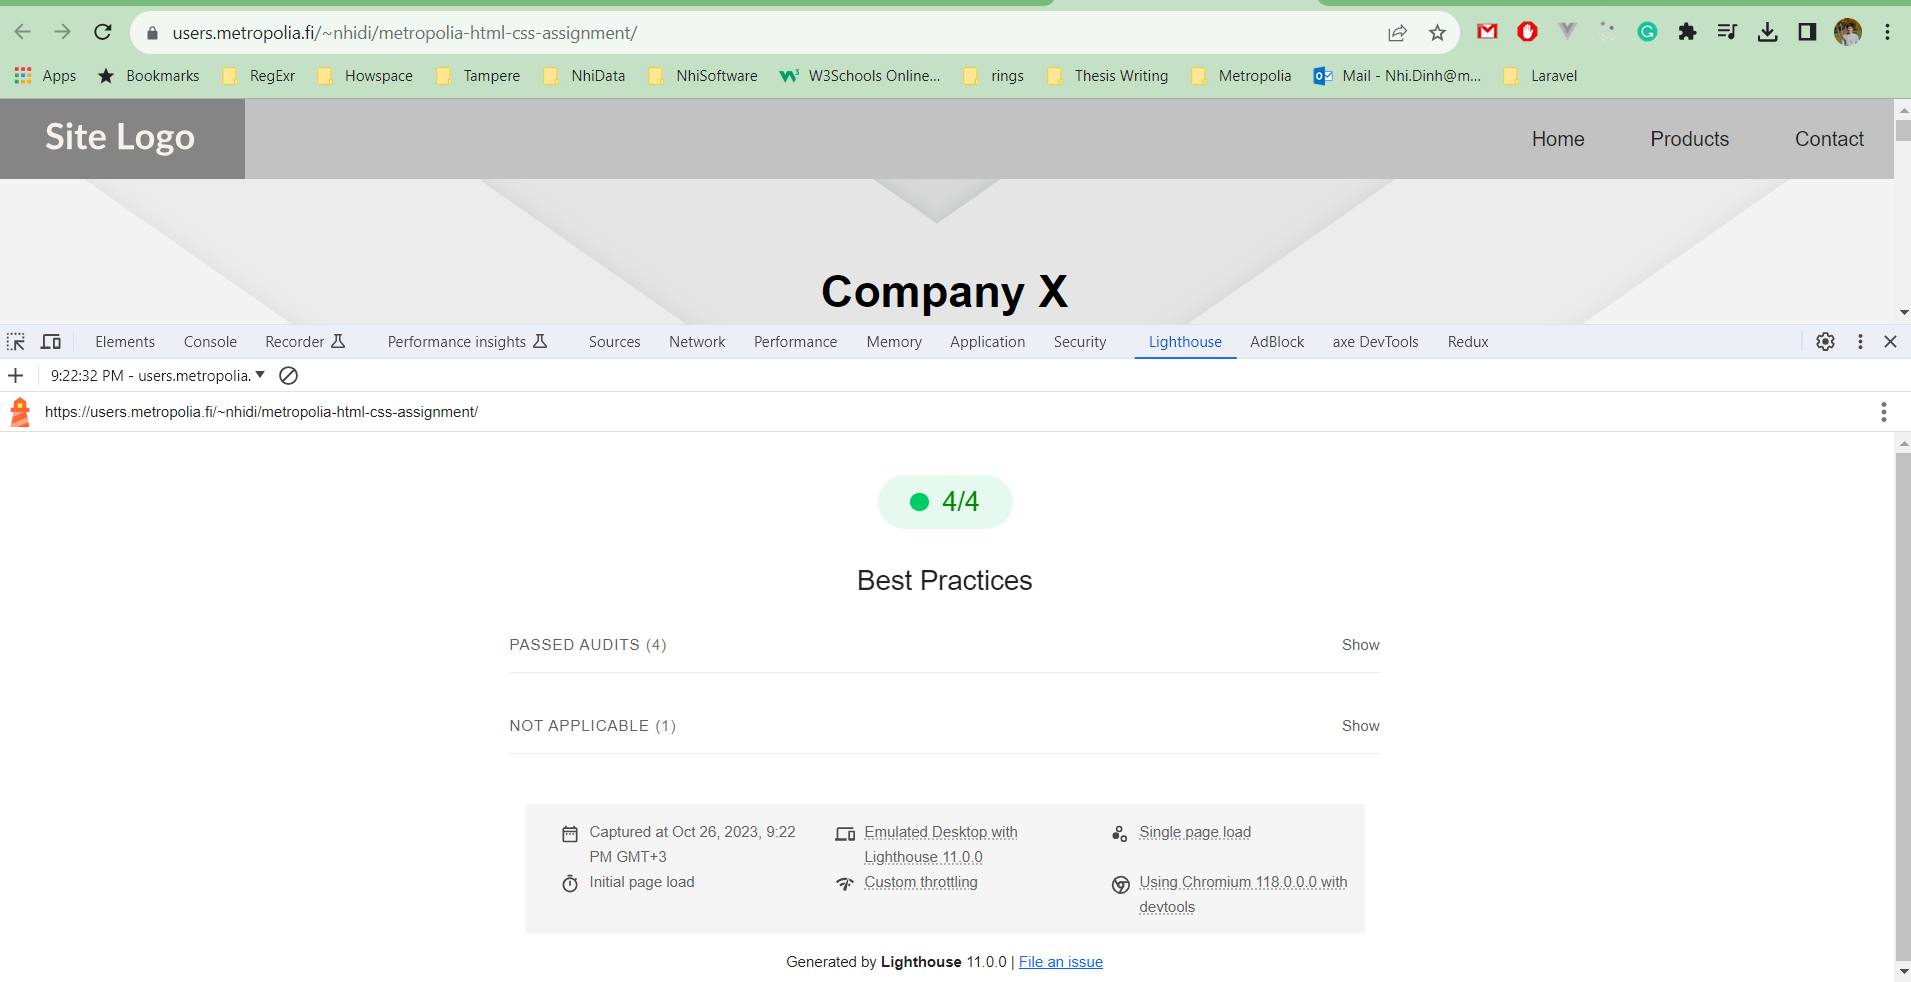
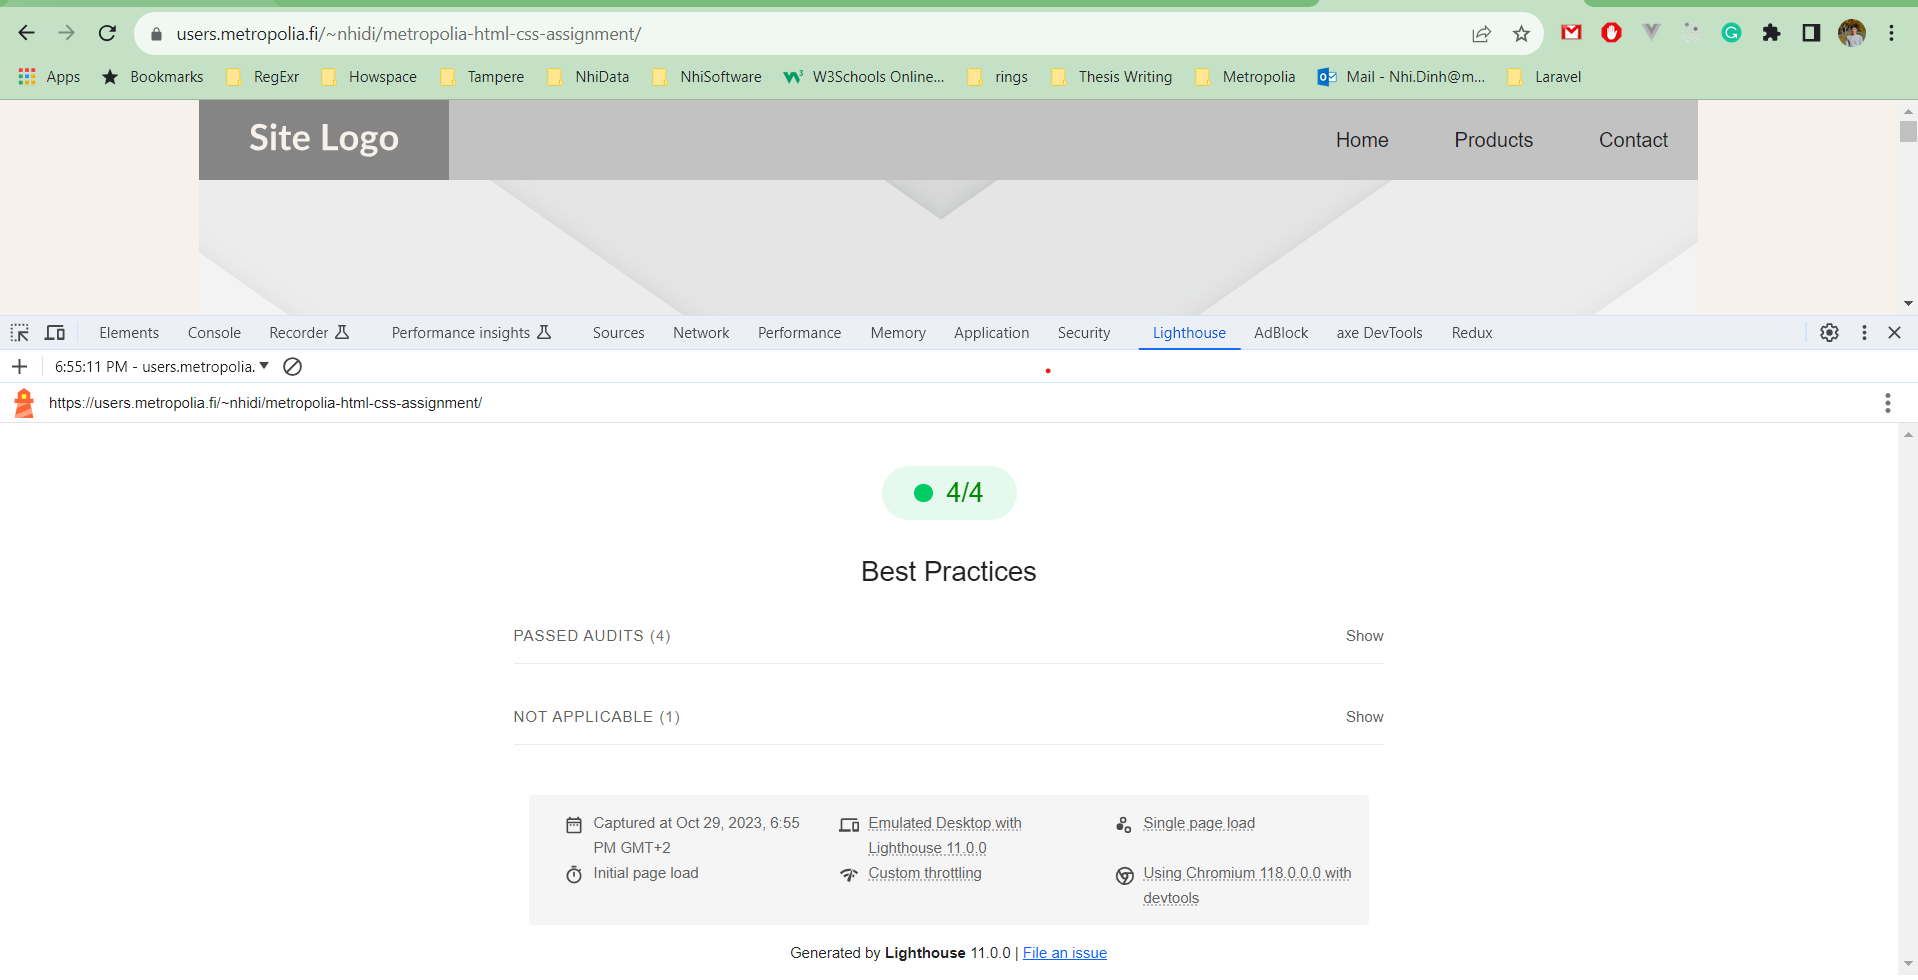
Update

diff --git a/results.html b/results.html
@@ -7,7 +7,6 @@
     <meta name="description" content="Results">
     <meta name="author" content="Nhi Dinh">
     <meta name="viewport" content="width=device-width, initial-scale=1.0">
-    <link rel="stylesheet" href="css/styles.css" type="text/css">
 </head>
 
 <body>
@@ -20,16 +19,12 @@
                     font-family: 'Roboto', sans-serif;
                     src: url('/fonts/Roboto-Regular.ttf') format('truetype');
                 }
-                
+
                 body {
                     font-family: 'Roboto', sans-serif;
                     margin: 0;
-                    padding: 0;
-                    background-image: url('/images/background.jpg');
-                    background-size: cover;
-                    background-repeat: no-repeat;
-                    background-attachment: fixed;
-                    background-position: center;
+                    padding: 0 10rem;
+                    background-color: #f7f1eb;
                 }
             </pre>
         </div>
